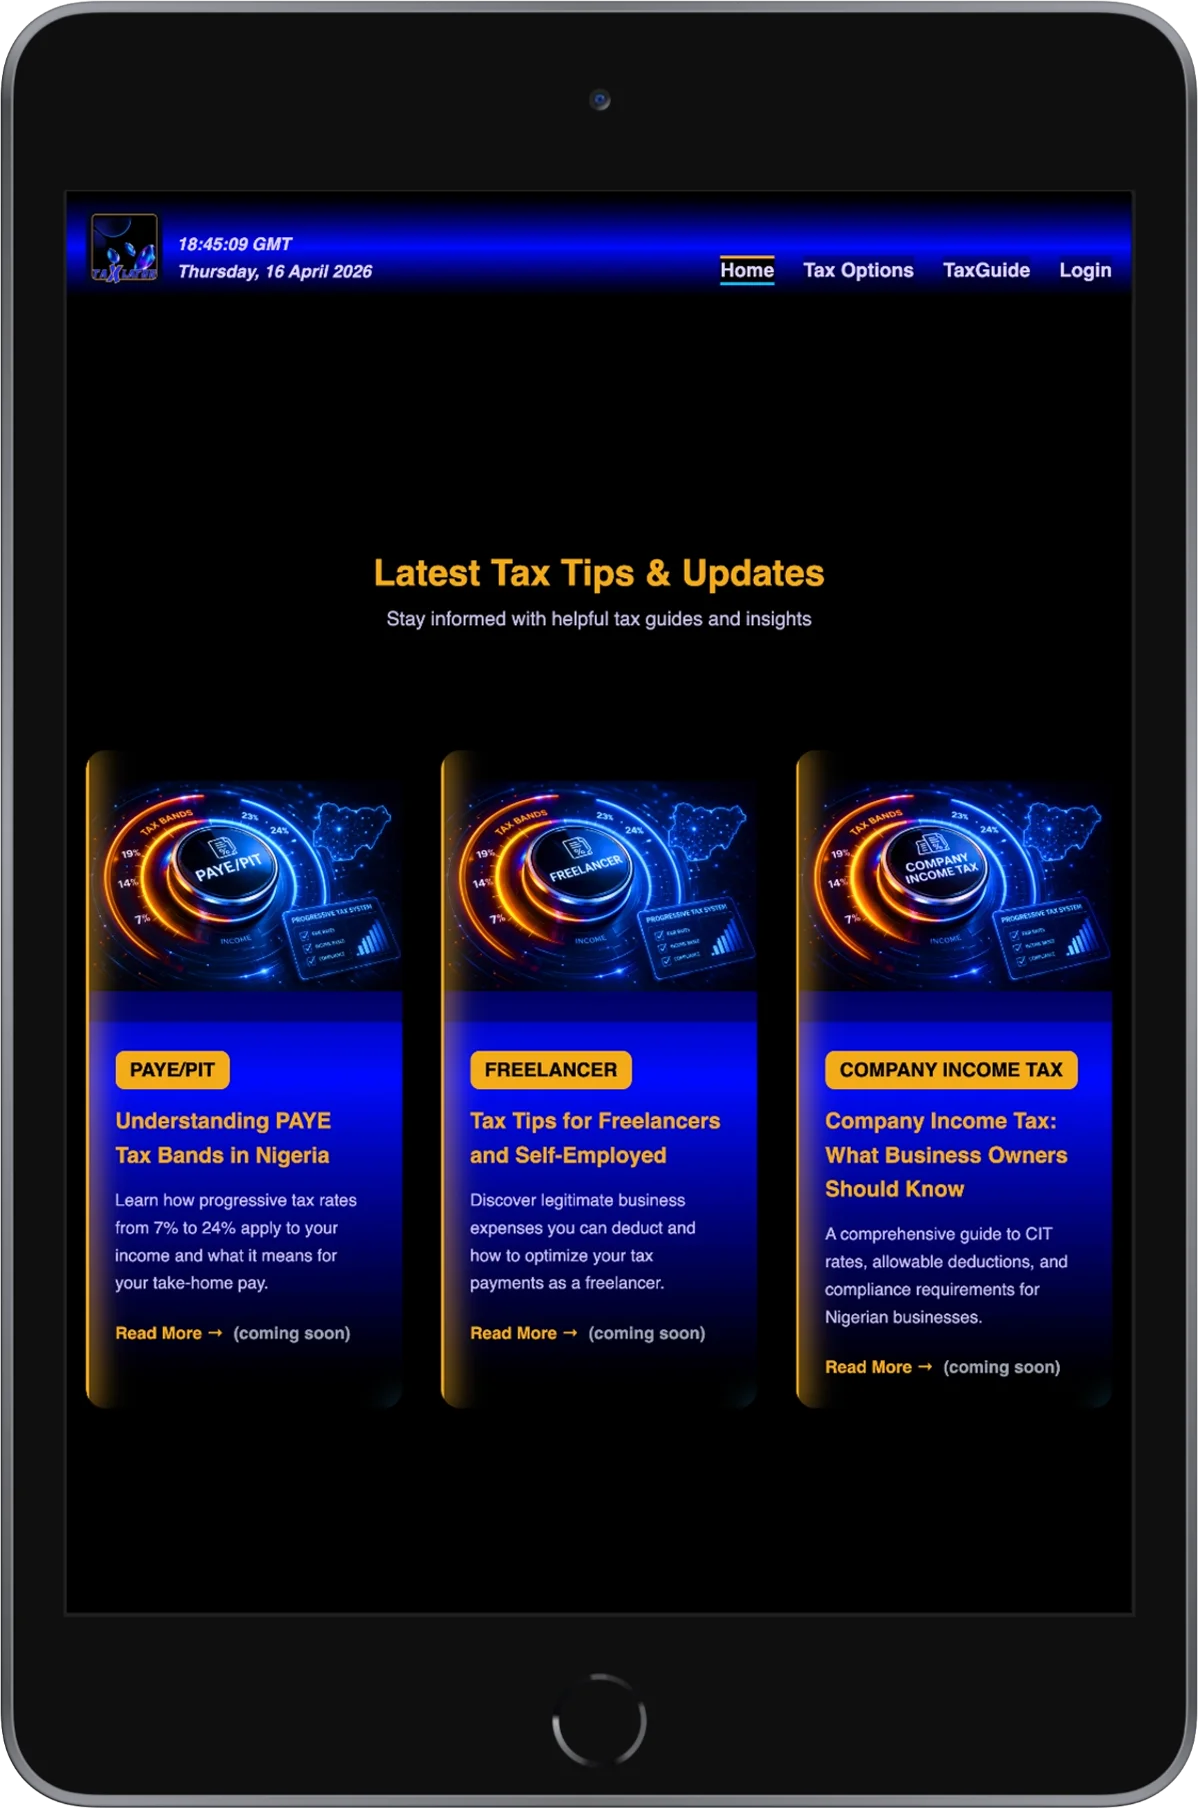
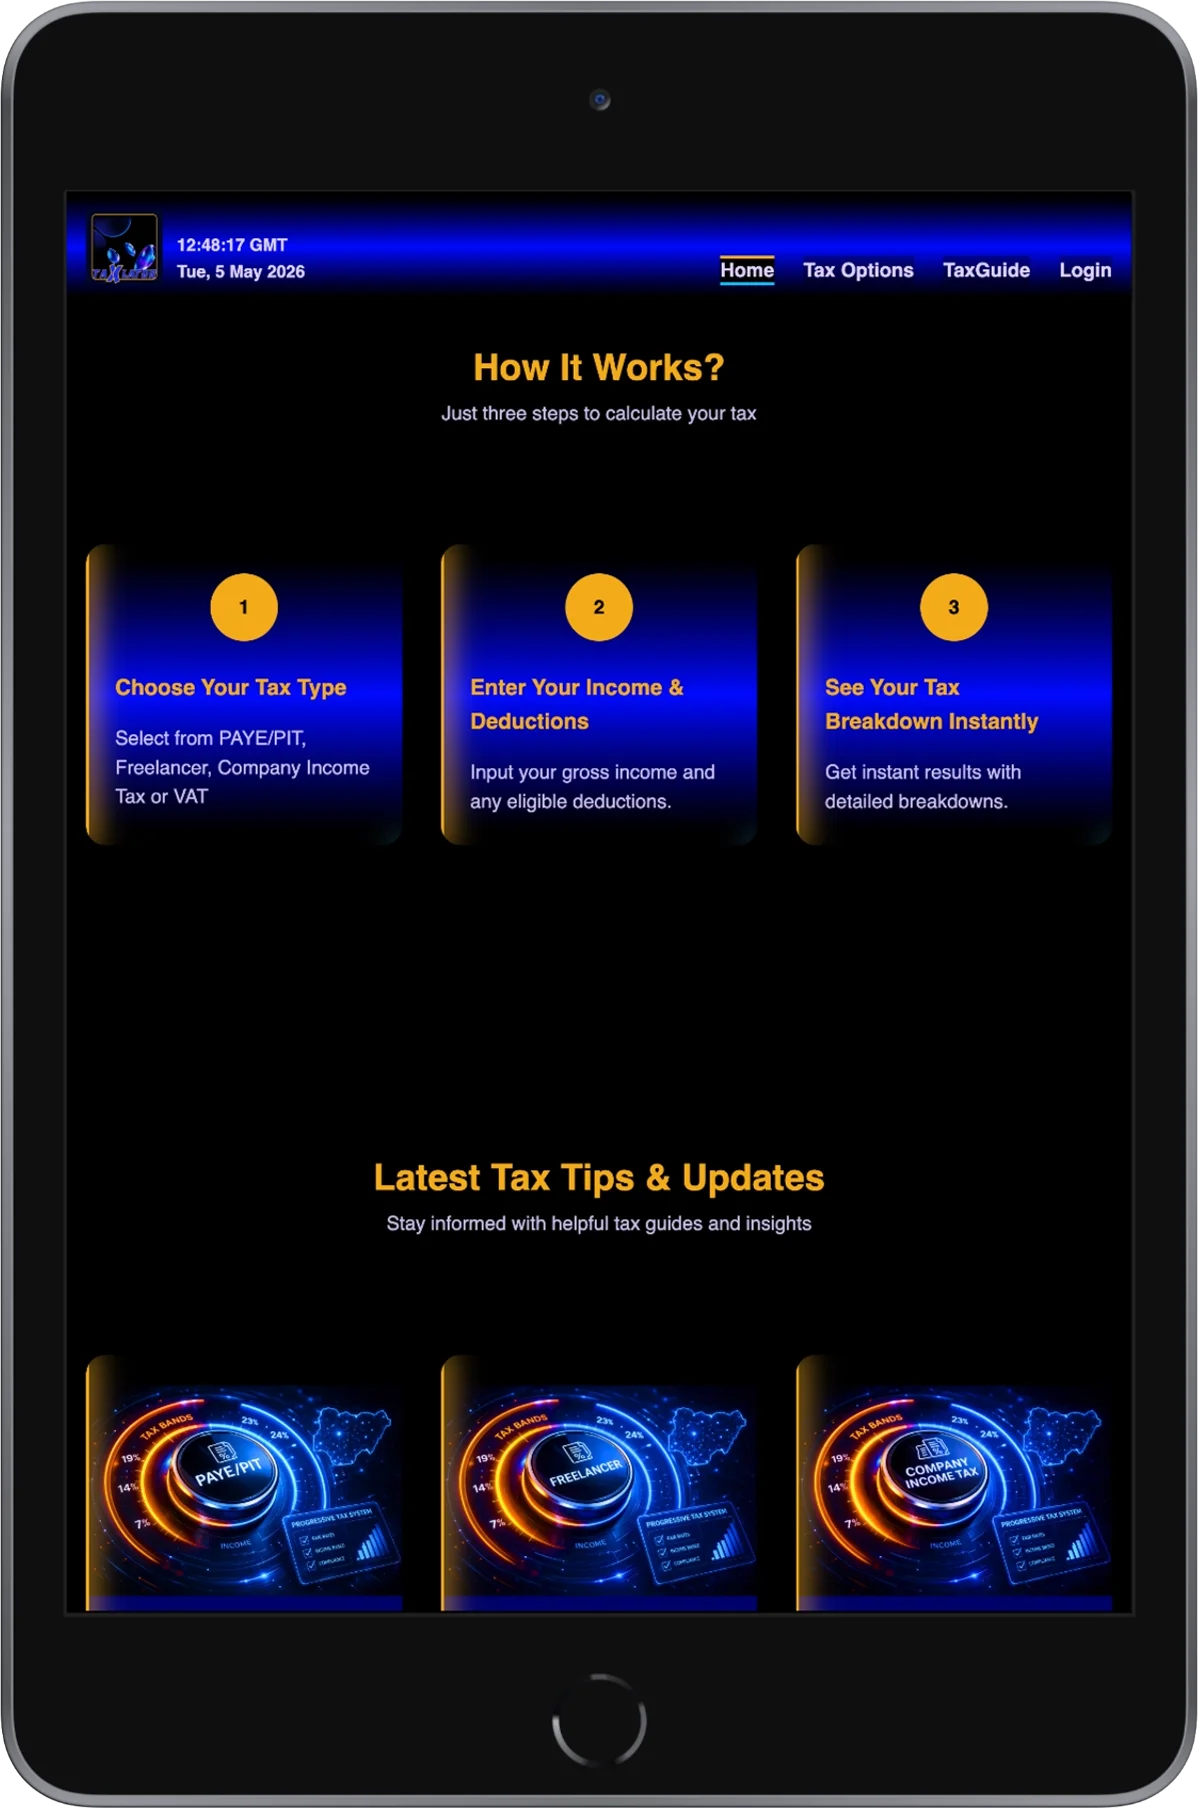
updated

diff --git a/frontend/src/Components/Reusables/ProjectBoard.tsx b/frontend/src/Components/Reusables/ProjectBoard.tsx
@@ -39,23 +39,23 @@ const ProjectBoard = ({ items, visibleCount }: ProjectBoardProps) => {
 	const visibleItems = items.slice(startIndex, startIndex + visibleCount);
 	const [activeProject, setActiveProject] = useState<Project | null>(null);
 	return (
-		<div className="projectBoard__parent flex flex-col items-center justify-center gap-4 w-full z-20 pb-[3rem]">
+		<div className="projectBoard__parent flex flex-col items-center justify-center gap-4 w-full z-20 pb-[3rem] text-md:[#dbcfff]/90">
 			{/* ================= TV FRAME (OUTER) */}
-			<div className="tvFrameOuterBorder relative w-full px-[1rem] pt-[1rem] pb-[3rem] overflow-hidden flex flex-col items-center justify-start border border-[#dbcfff] rounded-[1rem] flex-shrink-0">
+			<div className="tvFrameOuterBorder relative w-full px-[1rem] pt-[1rem] pb-[3rem] overflow-hidden flex flex-col items-center justify-start border border-orange-500 rounded-[1rem] flex-shrink-0">
 				{/* ================= TV SCREEN (INSIDE) */}
-				<div className="tvFrameInsideBorder relative w-full h-[40rem] md:h-[35rem] lg:h-[35rem] rounded-[1rem] bg-pink">
+				<div className="tvFrameInsideBorder relative w-full h-[40rem] md:h-[35rem] lg:h-[35rem] rounded-[1rem] bg-black">
 					{/* ===== CUSTOM BORDERS ===== */}
 					{/* ============================= TOP */}
-					<div className="absolute top-[-1rem] left-[-2rem] -translate-x-[1rem] w-[120%] md:w-[110%] h-[1rem] bg-black/80 backdrop-blur-sm md:bg-orange-500 rounded-full z-0"></div>
+					<div className="absolute top-[-1rem] left-[-2rem] -translate-x-[1rem] w-[120%] md:w-[110%] h-[1rem] bg-black/80 backdrop-blur-sm md:bg-black rounded-full z-0"></div>
 
 					{/* ======================== BOTTOM */}
-					<div className="absolute bottom-[-3rem] left-[-2rem] -translate-x-[1rem] w-[120%] md:w-[110%] h-[3rem] bg-black/80 backdrop-blur-sm md:bg-orange-500 rounded-full z-0"></div>
+					<div className="absolute bottom-[-3rem] left-[-2rem] -translate-x-[1rem] w-[120%] md:w-[110%] h-[3rem] bg-black/80 backdrop-blur-sm md:bg-black rounded-full z-0"></div>
 
 					{/* ============================= LEFT */}
-					<div className="absolute left-[-1rem] top-1/2 -translate-y-1/2 h-[110%] w-[1rem] bg-black/80 backdrop-blur-sm md:bg-orange-500 rounded-full z-0"></div>
+					<div className="absolute left-[-1rem] top-1/2 -translate-y-1/2 h-[110%] w-[1rem] bg-black/80 backdrop-blur-sm md:bg-black rounded-full z-0"></div>
 
 					{/* ============================= RIGHT */}
-					<div className="absolute right-[-1rem] top-1/2 -translate-y-1/2 h-[110%] w-[1rem] bg-black/80 backdrop-blur-sm md:bg-orange-500 rounded-full z-0"></div>
+					<div className="absolute right-[-1rem] top-1/2 -translate-y-1/2 h-[110%] w-[1rem] bg-black/80 backdrop-blur-sm md:bg-black rounded-full z-0"></div>
 
 					{/* ================= TV SCREEN CONTENT */}
 					<AnimatePresence mode="wait">
@@ -100,7 +100,7 @@ const ProjectBoard = ({ items, visibleCount }: ProjectBoardProps) => {
 										transition={{ type: "spring", stiffness: 300 }}
 									>
 										{/* ================= PROJECT CARD */}
-										<div className="projectCard flex flex-col overflow-hidden h-full border border-[#dbcfff]">
+										<div className="projectCard flex flex-col overflow-hidden h-full">
 											{/* ================= TV IMAGES */}
 											<div className="w-full flex justify-between flex-1 px-4 py-2">
 												{/* === MOBILE */}
@@ -139,7 +139,7 @@ const ProjectBoard = ({ items, visibleCount }: ProjectBoardProps) => {
 
 											{/* =========================== DETAILS */}
 											<div className="px-4 py-2 flex flex-col gap-[0.7rem] h-[18rem] md:h-[16rem] lg:h-[16rem]">
-												<div className="text-[1.25rem] font-bold text-orange-500 text-start bg-black/80 backdrop-blur-sm rounded-[0.5rem] md:shadow-[0_0_20px_rgba(255,165,0,0.7)]">
+												<div className="text-[1.25rem] font-bold text-orange-500 text-start bg-black/80 backdrop-blur-sm rounded-[0.5rem] md:shadow-[0_0_5px_rgba(255,165,0,0.7)]">
 													{/* =========== TITLE */}
 													<h4 className="border-l border-r border-orange-500 px-2 py-[0.2rem] bg-black/80 backdrop-blur-sm rounded-[0.5rem]">
 														{project.title}
@@ -147,7 +147,7 @@ const ProjectBoard = ({ items, visibleCount }: ProjectBoardProps) => {
 												</div>
 
 												{/* =========== DESCRIPTION */}
-												<div className="text-[1.1rem] bg-black/80 backdrop-blur-sm rounded-[0.5rem] line-clamp-3 md:line-clamp-2 h-[5.6rem] md:h-[4rem] lg:h-[4rem] md:shadow-[0_0_20px_rgba(255,165,0,0.7)]">
+												<div className="text-[1.1rem] bg-black/80 backdrop-blur-sm rounded-[0.5rem] line-clamp-3 md:line-clamp-2 h-[5.6rem] md:h-[4rem] lg:h-[4rem] md:shadow-[0_0_5px_rgba(255,165,0,0.7)]">
 													<p className="border-l border-r border-orange-500 px-2 py-[0.2rem] bg-black/80 backdrop-blur-sm rounded-[0.5rem]">
 														{project.description}
 													</p>
@@ -158,7 +158,7 @@ const ProjectBoard = ({ items, visibleCount }: ProjectBoardProps) => {
 													{project.tech.map((tech, idx) => (
 														<span
 															key={idx}
-															className="text-[0.9rem] border-l border-r border-orange-500 px-2 py-[0.2rem] bg-black/80 backdrop-blur-sm rounded-[0.5rem] md:shadow-[0_0_20px_rgba(255,165,0,0.7)]"
+															className="text-[0.9rem] border-l border-r border-orange-500 px-2 py-[0.2rem] bg-black/80 backdrop-blur-sm rounded-[0.5rem] md:shadow-[0_0_5px_rgba(255,165,0,0.7)]"
 														>
 															{tech}
 														</span>
@@ -210,20 +210,20 @@ const ProjectBoard = ({ items, visibleCount }: ProjectBoardProps) => {
 					</AnimatePresence>
 				</div>
 				{/* ================= FAKE TV BUTTONS */}
-				<div className="absolute bottom-[1rem] left-0 w-full px-4 flex justify-between items-center gap-8 mt-4 z-20">
-					<div className="w-3 h-3 bg-orange-500 md:bg-[#dbcfff] rounded-full"></div>
+				<div className="absolute bottom-[1rem] left-0 w-full px-4 flex justify-between items-center gap-8 mt-4 z-20 bg-black">
+					<div className="w-3 h-3 bg-orange-500 rounded-full"></div>
 
 					<div className="flex gap-2">
 						<div className="w-1 h-1 bg-orange-500 md:bg-[#dbcfff] rounded-full"></div>
-						<div className="w-1 h-1 bg-[#dbcfff] md:bg-[#450693] rounded-full"></div>
+						<div className="w-1 h-1 bg-[#dbcfff] md:bg-orange-500 rounded-full"></div>
 						<div className="w-1 h-1 bg-orange-500 md:bg-[#dbcfff] rounded-full"></div>
 					</div>
 
-					<div className="w-3 h-3 bg-orange-500 md:bg-[#dbcfff] rounded-full"></div>
+					<div className="w-3 h-3 bg-orange-500 rounded-full"></div>
 				</div>
 			</div>
 
-			{/* ================= CORD */}
+			{/* ================= STEPS */}
 			<div className="border border-orange-500 px-[1.5rem]"></div>
 			<div className="border border-orange-500 px-[1.5rem]"></div>
 

diff --git a/frontend/src/Components/AboutSection.tsx b/frontend/src/Components/AboutSection.tsx
@@ -30,7 +30,7 @@ const AboutSection = () => {
 				}
 			>
 				{/* ============================== ABOUT CONTENT */}
-				<div className="aboutSection__paragraphs flex flex-1 flex-col justify-center gap-4 lg:gap-3 text-[1.2rem] w-full pb-[3rem]">
+				<div className="aboutSection__paragraphs flex flex-1 flex-col justify-center gap-4 lg:gap-3 text-[1.2rem] w-full pb-[3rem] text-[#dbcfff]/90">
 					<p className="w-fit bg-black/80 backdrop-blur-sm md:border md:border-orange-500 rounded-[1rem] md:rounded-[0.5rem] px-4 py-[0.2rem]">
 						I enjoy being a full-stack developer.
 					</p>
@@ -52,21 +52,26 @@ const AboutSection = () => {
 					</p>
 
 					<p className="w-fit bg-black/80 backdrop-blur-sm md:border md:border-orange-500 rounded-[1rem] md:rounded-[0.5rem] px-4 py-[0.2rem]">
-						<span className="font-bold text-orange-500">On the frontend,</span>{" "}
+						<span className="font-bold text-orange-500/90">
+							On the frontend,
+						</span>{" "}
 						I work with{" "}
-						<span className="font-bold text-orange-500">
+						<span className="font-bold text-orange-500/90">
 							React, TypeScript, Vite, and Tailwind CSS.
 						</span>
 					</p>
 
 					<p className="w-fit bg-black/80 backdrop-blur-sm md:border md:border-orange-500 rounded-[1rem] md:rounded-[0.5rem] px-4 py-[0.2rem]">
-						<span className="font-bold text-orange-500">On the backend,</span> I
-						build <span className="font-bold text-orange-500">APIs</span> using{" "}
-						<span className="font-bold text-orange-500">
+						<span className="font-bold text-orange-500/90">
+							On the backend,
+						</span>{" "}
+						I build <span className="font-bold text-orange-500/90">APIs</span>{" "}
+						using{" "}
+						<span className="font-bold text-orange-500/90">
 							Node.js and Express
 						</span>{" "}
 						and work with{" "}
-						<span className="font-bold text-orange-500">
+						<span className="font-bold text-orange-500/90">
 							MongoDB or SQL databases.
 						</span>
 					</p>

diff --git a/frontend/src/Components/ProjectsSection.tsx b/frontend/src/Components/ProjectsSection.tsx
@@ -38,7 +38,7 @@ const projects = [
 		tech: ["React", "Tailwind", "TypeScript", "Node.js", "MongoDB"],
 		video: taxlator,
 		live: "https://taxlatorv2.vercel.app/",
-		github: "https://github.com/ebenezerkingv2/taxlator_v2",
+		github: "https://github.com/ebenezerkingv2/taxlatorV2_frontend",
 	},
 ];
 // =====================================

diff --git a/frontend/src/Components/ServicesSection.tsx b/frontend/src/Components/ServicesSection.tsx
@@ -68,7 +68,7 @@ const ServicesSection = () => {
 	// =================================
 
 	return (
-		<section className="servicesSection relative min-h-screen w-full flex flex-col md:bg-black text-[#dbcfff] overflow-hidden">
+		<section className="servicesSection relative min-h-screen w-full flex flex-col md:bg-black text-[#dbcfff]/90 overflow-hidden">
 			{/* ============================== HERO IMAGE */}
 			<img
 				src={neonUmbrellaRainyNight}